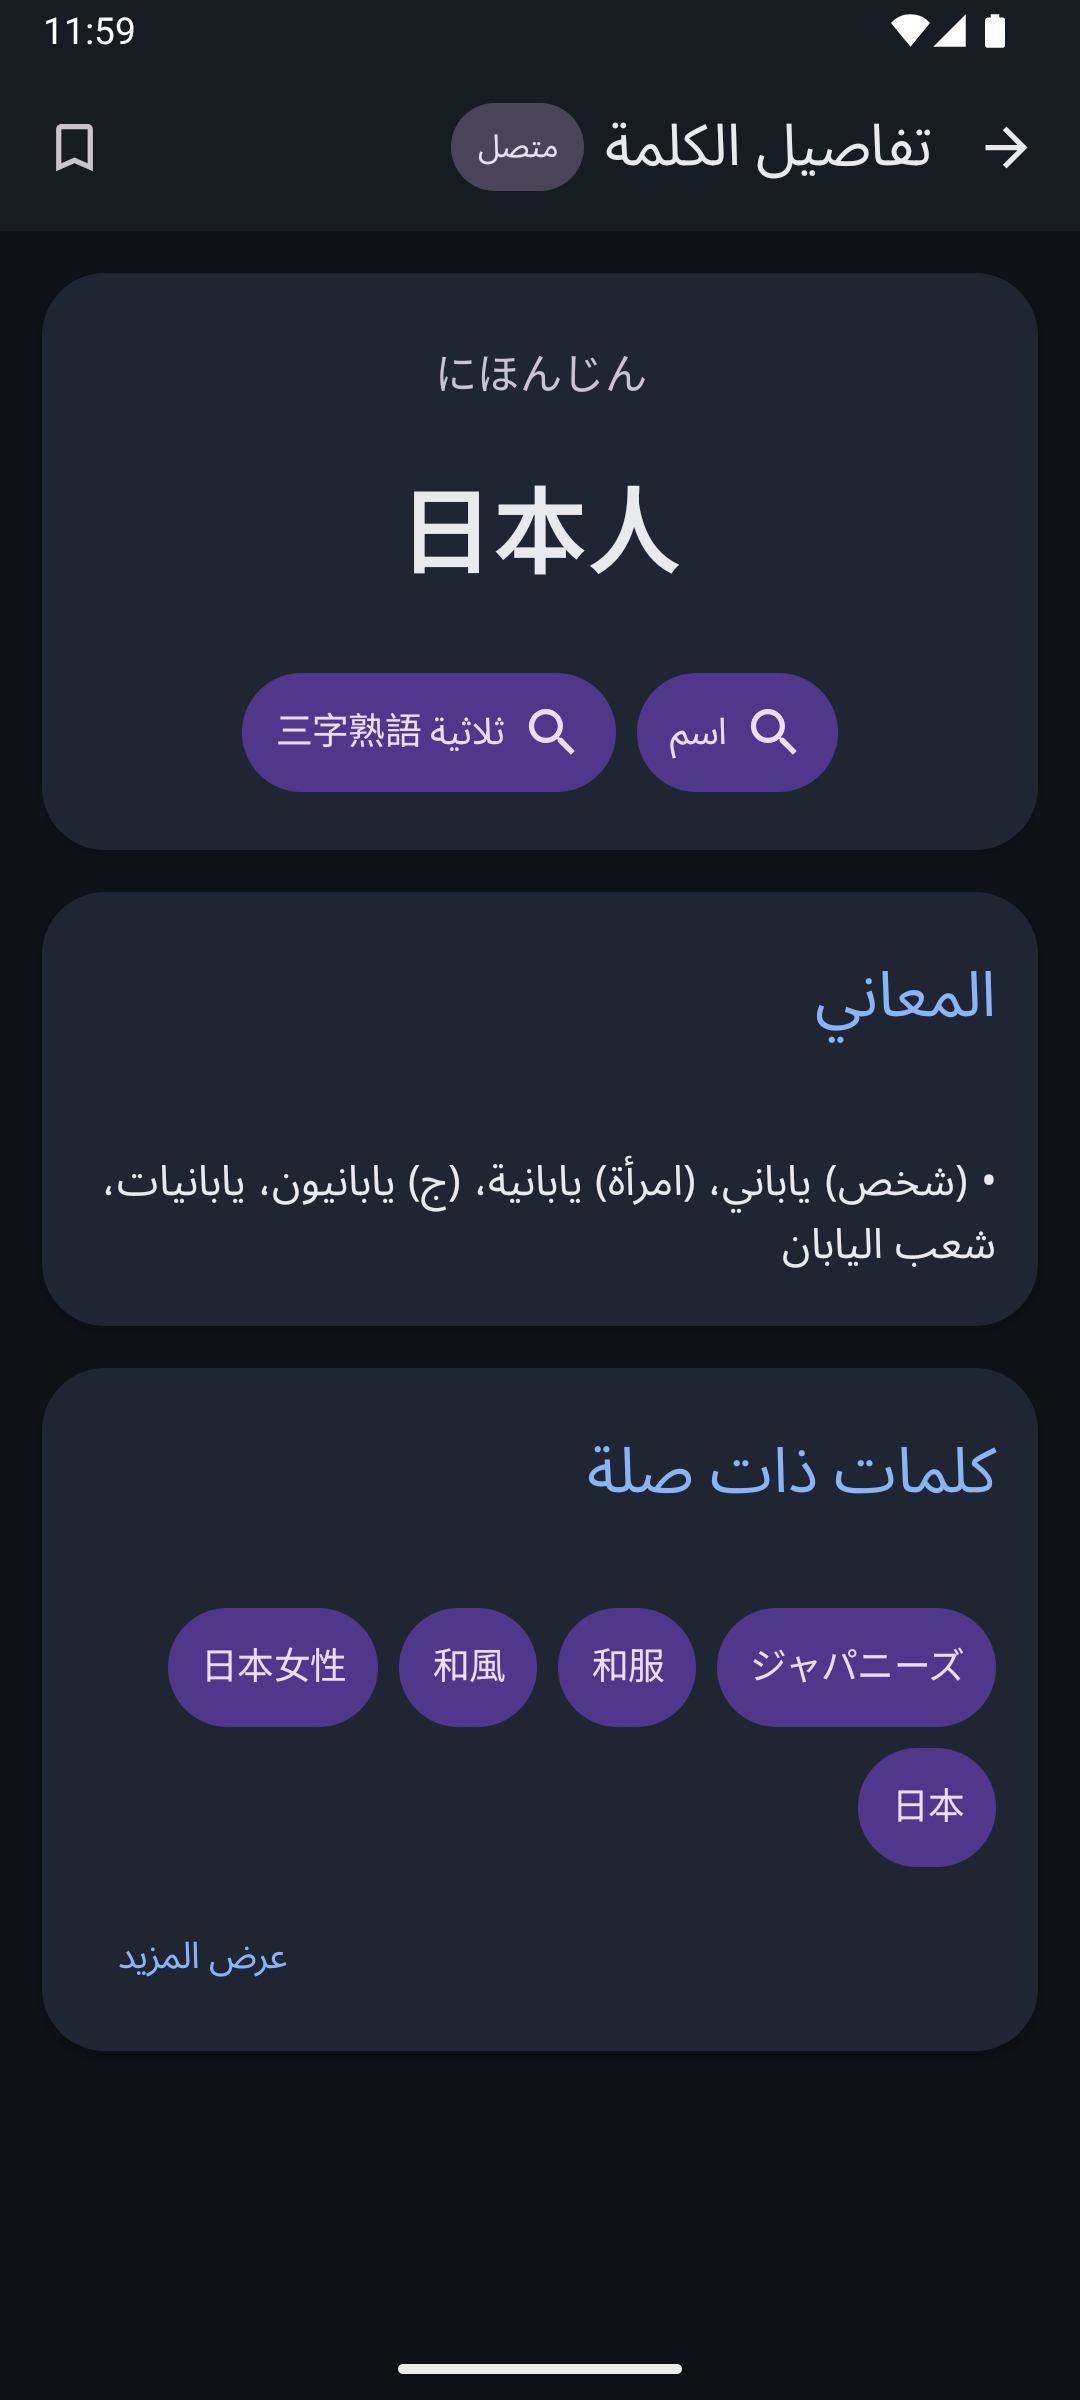
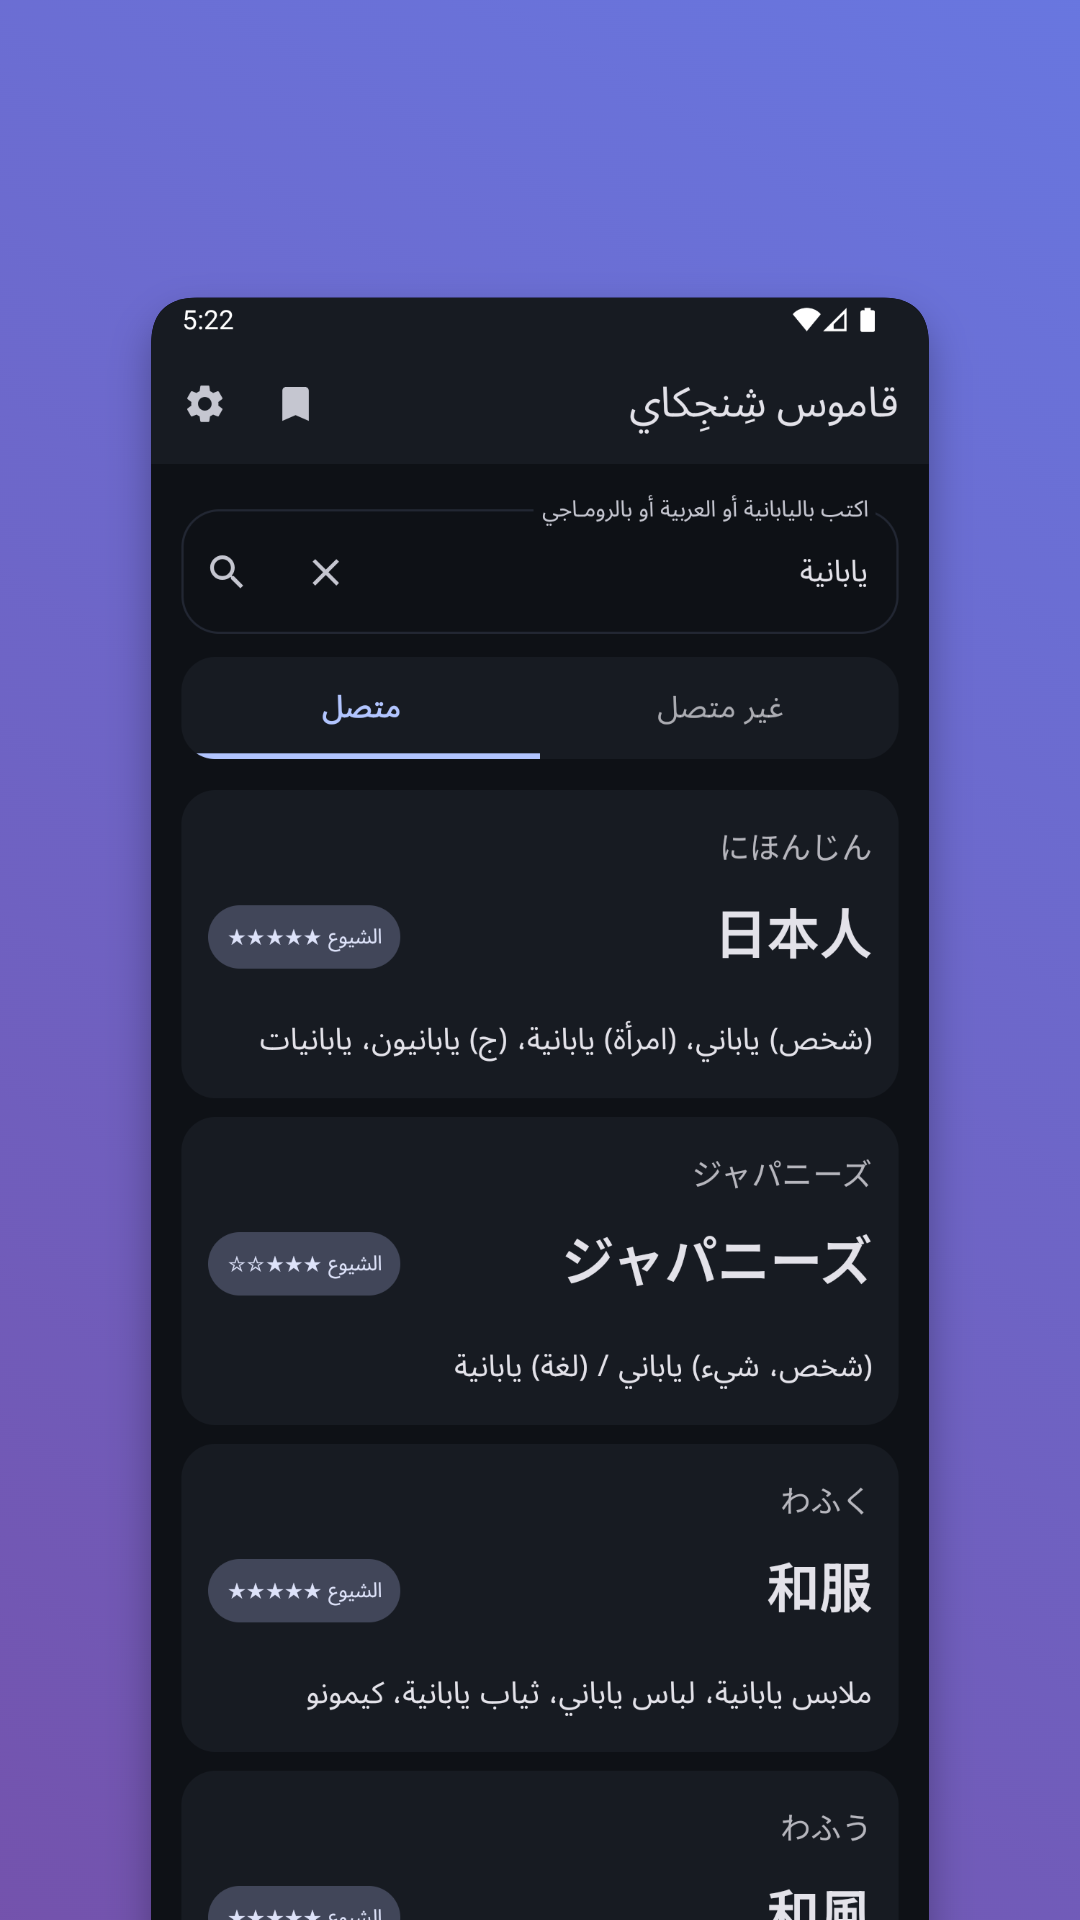
Enhance introduction screen and update README with screenshots
Key changes include:
- Added a new setting to allow users to replay the introduction/onboarding screen via `showIntroductionAgain`.
- Updated `IntroductionScreen` to use localized string resources for the app name and title, removing the need for a passed-in parameter.
- Refined the UI of the introduction screen by removing unnecessary icons and adjusting vertical alignment.
- Updated `README.md` to include app screenshots, language links (English/Arabic), and minor formatting improvements for better readability.
- Added localized Arabic strings for the onboarding reset functionality in the settings screen.
- Updated binary screenshot assets.

diff --git a/app/src/main/java/com/shinjikai/dictionary/SettingsScreen.kt b/app/src/main/java/com/shinjikai/dictionary/SettingsScreen.kt
@@ -185,6 +185,31 @@ fun SettingsScreenContent(
             }
 
             Card(
+                modifier = Modifier.fillMaxWidth(),
+                shape = RoundedCornerShape(18.dp),
+                colors = CardDefaults.cardColors(containerColor = MaterialTheme.colorScheme.surface)
+            ) {
+                Column(
+                    modifier = Modifier.padding(14.dp),
+                    verticalArrangement = Arrangement.spacedBy(10.dp)
+                ) {
+                    Text(
+                        text = stringResource(R.string.settings_onboarding_title),
+                        style = MaterialTheme.typography.titleMedium,
+                        fontWeight = FontWeight.SemiBold
+                    )
+                    Text(
+                        text = stringResource(R.string.settings_onboarding_description),
+                        style = MaterialTheme.typography.bodyMedium,
+                        color = MaterialTheme.colorScheme.onSurface.copy(alpha = 0.85f)
+                    )
+                    TextButton(onClick = viewModel::showIntroductionAgain) {
+                        Text(stringResource(R.string.settings_onboarding_show_again))
+                    }
+                }
+            }
+
+            Card(
                 modifier = Modifier
                     .fillMaxWidth()
                     .clickable {

diff --git a/app/src/main/java/com/shinjikai/dictionary/ShinjikaiApp.kt b/app/src/main/java/com/shinjikai/dictionary/ShinjikaiApp.kt
@@ -29,7 +29,6 @@ import androidx.compose.material.icons.automirrored.filled.MenuBook
 import androidx.compose.material.icons.filled.Bookmark
 import androidx.compose.material.icons.filled.DownloadForOffline
 import androidx.compose.material.icons.filled.Search
-import androidx.compose.material.icons.filled.TipsAndUpdates
 import androidx.compose.material.icons.outlined.BookmarkBorder
 import androidx.compose.material3.Button
 import androidx.compose.material3.ExperimentalMaterial3Api
@@ -212,7 +211,6 @@ fun ShinjikaiApp(
             Surface(color = MaterialTheme.colorScheme.background) {
                 if (viewModel.settingsUiState.showIntroduction) {
                     IntroductionScreen(
-                        appName = appName,
                         onFinish = viewModel::dismissIntroduction,
                         onOpenOfflineSetup = {
                             viewModel.dismissIntroduction()
@@ -265,7 +263,6 @@ fun ShinjikaiApp(
 @Composable
 @OptIn(ExperimentalFoundationApi::class)
 private fun IntroductionScreen(
-    appName: String,
     onFinish: () -> Unit,
     onOpenOfflineSetup: () -> Unit
 ) {
@@ -308,7 +305,10 @@ private fun IntroductionScreen(
             verticalArrangement = Arrangement.spacedBy(18.dp)
         ) {
             Spacer(modifier = Modifier.height(4.dp))
-            Text(text = appName, style = MaterialTheme.typography.displaySmall)
+            Text(
+                text = stringResource(R.string.intro_app_name),
+                style = MaterialTheme.typography.displaySmall
+            )
             Text(
                 text = stringResource(R.string.intro_title),
                 style = MaterialTheme.typography.headlineMedium
@@ -410,7 +410,7 @@ private fun IntroPageCard(
             ) {
                 Column(
                     horizontalAlignment = Alignment.CenterHorizontally,
-                    verticalArrangement = Arrangement.spacedBy(14.dp)
+                    verticalArrangement = Arrangement.Center
                 ) {
                     Box(
                         modifier = Modifier
@@ -426,12 +426,6 @@ private fun IntroPageCard(
                             modifier = Modifier.size(40.dp)
                         )
                     }
-                    Icon(
-                        imageVector = Icons.Default.TipsAndUpdates,
-                        contentDescription = null,
-                        tint = Color.White.copy(alpha = 0.88f),
-                        modifier = Modifier.size(26.dp)
-                    )
                 }
             }
 

diff --git a/app/src/main/java/com/shinjikai/dictionary/ui/ShinjikaiViewModel.kt b/app/src/main/java/com/shinjikai/dictionary/ui/ShinjikaiViewModel.kt
@@ -478,6 +478,10 @@ class ShinjikaiViewModel(app: Application) : AndroidViewModel(app) {
         viewModelScope.launch { settingsStore.setHasSeenIntroduction(true) }
     }
 
+    fun showIntroductionAgain() {
+        viewModelScope.launch { settingsStore.setHasSeenIntroduction(false) }
+    }
+
     fun refreshOfflineTermCount() {
         viewModelScope.launch {
             val (count, epochMs) = withContext(Dispatchers.IO) {

diff --git a/README.md b/README.md
@@ -1,8 +1,8 @@
-# 📘 Shinjikai Android Dictionary
+# Shinjikai Android Dictionary
 
-[![GitHub all releases downloads](https://img.shields.io/github/downloads/obj44/shinjikai/total)](https://github.com/obj44/shinjikai/releases)
+[English](./README.md) | [العربية](./README.ar.md)
 
-Android app (Kotlin + Jetpack Compose) for Japanese → Arabic dictionary lookup using the Shinjikai API:  
+Android app (Kotlin + Jetpack Compose) for Japanese to Arabic dictionary lookup using the Shinjikai API:  
 `https://shinjikai.app`
 
 ## ✨ Features
@@ -13,12 +13,19 @@ Android app (Kotlin + Jetpack Compose) for Japanese → Arabic dictionary lookup
   - JLPT level
   - category chips
   - Arabic definitions
-  - related words section (synonyms/antonyms/related links when available)
+  - related words section (synonyms, antonyms, and related links when available)
 - 🔖 Bookmarks (save and manage words)
 - 🕘 Recent searches
 - 🌐 Online mode (Shinjikai RPC API)
 - 📦 Offline mode with local Yomitan dictionary import
 - 🎨 Material 3 UI with dark/light theme support
+
+## 📱 Screenshots
+
+<p align="center">
+  <img src="fastlane/metadata/android/en-US/images/phoneScreenshots/Screenshot_1.png" alt="Shinjikai search screen" width="260" />
+  <img src="fastlane/metadata/android/en-US/images/phoneScreenshots/Screenshot_2.png" alt="Shinjikai word details screen" width="260" />
+</p>
 
 ## 🧠 API Endpoints Used
 
@@ -45,16 +52,16 @@ Request headers include `X-Client-Id` as required by the backend.
 ## ⚙️ Notes
 
 - Search currently uses default API mode (`Mode = 0`).
-- Some fields (for example related links/categories) depend on API data availability per word.
-- In offline mode, data comes from local imported dictionary and may differ from online details.
+- Some fields, such as related links and categories, depend on API data availability per word.
+- In offline mode, data comes from the local imported dictionary and may differ from online details.
 
-## 🗂️ Project Structure (High Level)
+## 🗂️ Project Structure
 
-- `app/src/main/java/com/shinjikai/dictionary/` → UI and app flow
-- `app/src/main/java/com/shinjikai/dictionary/data/` → API models, repository, Room, offline source
-- `app/src/main/res/` → resources (strings, themes, icons, fonts)
+- `app/src/main/java/com/shinjikai/dictionary/` -> UI and app flow
+- `app/src/main/java/com/shinjikai/dictionary/data/` -> API models, repository, Room, and offline source
+- `app/src/main/res/` -> resources (strings, themes, icons, fonts)
 
 ## 🙌 Credits
 
 - Dictionary data and API: **Shinjikai** (`https://shinjikai.app`)
-- Offline source archive default URL points to the `a-hamdi/japanesearabic` dataset used by the app importer.
+- The default offline source archive URL points to the `a-hamdi/japanesearabic` dataset used by the app importer.